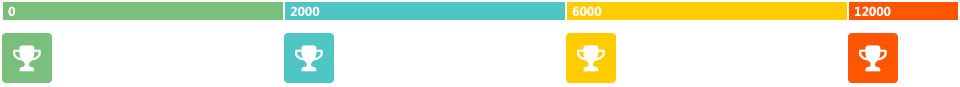
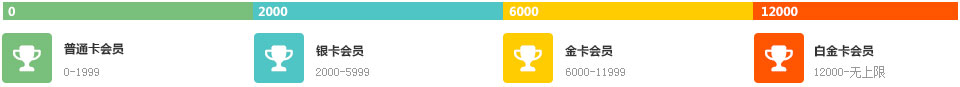
vip

diff --git a/css/main.css b/css/main.css
@@ -7452,42 +7452,48 @@ a.delbtns:hover {
   height: 18px;
   line-height: 18px;
   padding-left: 10px;
-  margin-right: 2px;
   color: #fff;
   position: relative;
+  width: 230px;
 }
 .vipbox .viptab .ui-switchable-content .tab-panel .viptab-two .viptab-content .tabtwo-panel .viptab-step li s {
-  width: 50px;
+  width: 200px;
+  padding-left: 55px;
   height: 50px;
   background: url("../images/vip.png") no-repeat 0 0;
   position: absolute;
   top: 25px;
   left: 0px;
+  text-decoration: none;
+}
+.vipbox .viptab .ui-switchable-content .tab-panel .viptab-two .viptab-content .tabtwo-panel .viptab-step li s .p-vip {
+  color: #333;
+  font-weight: bold;
+  margin: 5px 0 5px 0;
+}
+.vipbox .viptab .ui-switchable-content .tab-panel .viptab-two .viptab-content .tabtwo-panel .viptab-step li s .p-number {
+  color: #999;
 }
 .vipbox .viptab .ui-switchable-content .tab-panel .viptab-two .viptab-content .tabtwo-panel .viptab-step li.li1 {
   background-color: #79bf7b;
-  width: 270px;
 }
 .vipbox .viptab .ui-switchable-content .tab-panel .viptab-two .viptab-content .tabtwo-panel .viptab-step li.li2 {
   background-color: #4fc5c5;
-  width: 270px;
 }
 .vipbox .viptab .ui-switchable-content .tab-panel .viptab-two .viptab-content .tabtwo-panel .viptab-step li.li2 s {
-  background-position: -50px 0;
+  background-position: 0px -60px;
 }
 .vipbox .viptab .ui-switchable-content .tab-panel .viptab-two .viptab-content .tabtwo-panel .viptab-step li.li3 {
   background-color: #ffcc00;
-  width: 270px;
 }
 .vipbox .viptab .ui-switchable-content .tab-panel .viptab-two .viptab-content .tabtwo-panel .viptab-step li.li3 s {
-  background-position: -100px 0;
+  background-position: 0px -120px;
 }
 .vipbox .viptab .ui-switchable-content .tab-panel .viptab-two .viptab-content .tabtwo-panel .viptab-step li.li4 {
   background-color: #ff5500;
-  width: 102px;
 }
 .vipbox .viptab .ui-switchable-content .tab-panel .viptab-two .viptab-content .tabtwo-panel .viptab-step li.li4 s {
-  background-position: -150px 0;
+  background-position: 0px -180px;
 }
 .vipbox .viptab .ui-switchable-content .tab-panel .viptab-two .viptab-content .tabtwo-panel .tabtwo-table {
   line-height: 33px;

diff --git a/sass/main.scss b/sass/main.scss
@@ -7102,43 +7102,50 @@ color: #38ac01;
 									height: 18px;
 									line-height: 18px;
 									padding-left: 10px;
-									margin-right: 2px;
 									color: #fff;
 									position: relative;
+									width: 230px;
 
 									s{
-										width: 50px;
+										width: 200px;
+										padding-left: 55px;
 										height: 50px;
 										background: url("../images/vip.png") no-repeat 0 0;
 										position: absolute;
 										top: 25px;
 										left: 0px;
+										text-decoration: none;
+
+										.p-vip{
+											color: #333;
+											font-weight: bold;
+											margin: 5px 0 5px 0;
+										}
+										.p-number{
+											color: #999;
+										}
 									}
 
 									&.li1{
 										background-color: #79bf7b;
-										width: 270px;
 									}
 									&.li2{
 										background-color: #4fc5c5;
-										width: 270px;
 
 										s{
-											background-position: -50px 0;
+											background-position: 0px -60px;
 										}
 									}
 									&.li3{
 										background-color: #ffcc00;
-										width: 270px;
 										s{
-											background-position: -100px 0;
+											background-position: 0px -120px;
 										}
 									}
 									&.li4{
 										background-color: #ff5500;
-										width: 102px;
 										s{
-											background-position: -150px 0;
+											background-position: 0px -180px;
 										}
 									}
 								}

diff --git a/vip5.php b/vip5.php
@@ -67,10 +67,30 @@
 																</div>
 															</div>
 															<ul>
-																<li class="li1">0<s></s></li>
-																<li class="li2">2000 <s></s></li>
-																<li class="li3">6000 <s></s></li>
-																<li class="li4">12000 <s></s></li>
+																<li class="li1">0
+																	<s>
+																		<p class="p-vip">普通卡会员</p>
+																		<p class="p-number">0-1999</p>
+																	</s>
+																</li>
+																<li class="li2">2000 
+																	<s>
+																		<p class="p-vip">银卡会员</p>
+																		<p class="p-number">2000-5999</p>
+																	</s>
+																</li>
+																<li class="li3">6000
+																	<s>
+																		<p class="p-vip">金卡会员</p>
+																		<p class="p-number">6000-11999</p>
+																	</s>
+																</li>
+																<li class="li4">12000 
+																	<s>
+																		<p class="p-vip">白金卡会员</p>
+																		<p class="p-number">12000-无上限</p>
+																	</s>
+																</li>
 															</ul>
 														</div>
 													</div>
